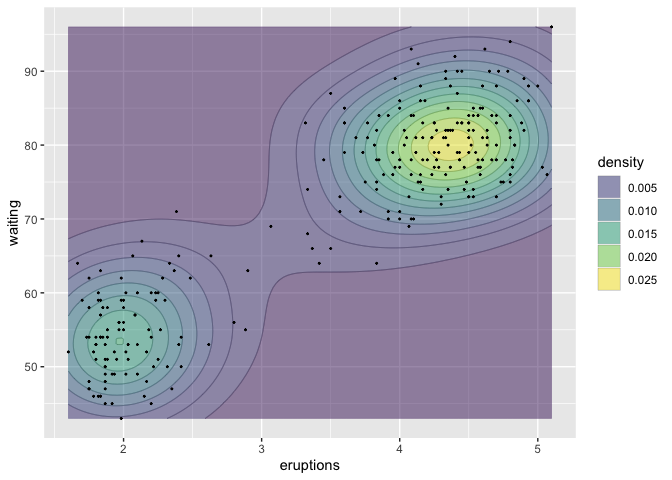
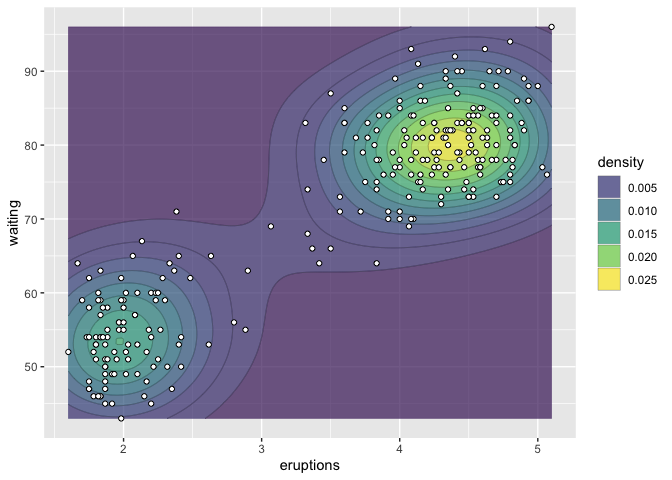
update readme

diff --git a/README.md b/README.md
@@ -67,8 +67,8 @@ We can also draw contour bands derived from a 2D density estimation.
 
 ``` r
 ggplot(faithful, aes(eruptions, waiting)) +
-  geom_density_bands(aes(fill = stat(density)), color = "gray40", alpha = 0.5, size = 0.2) +
-  geom_point(size = 0.3) +
+  geom_density_bands(aes(fill = stat(density)), color = "gray40", alpha = 0.7, size = 0.2) +
+  geom_point(shape = 21, fill = "white") +
   scale_fill_viridis_c(guide = "legend")
 ```
 
